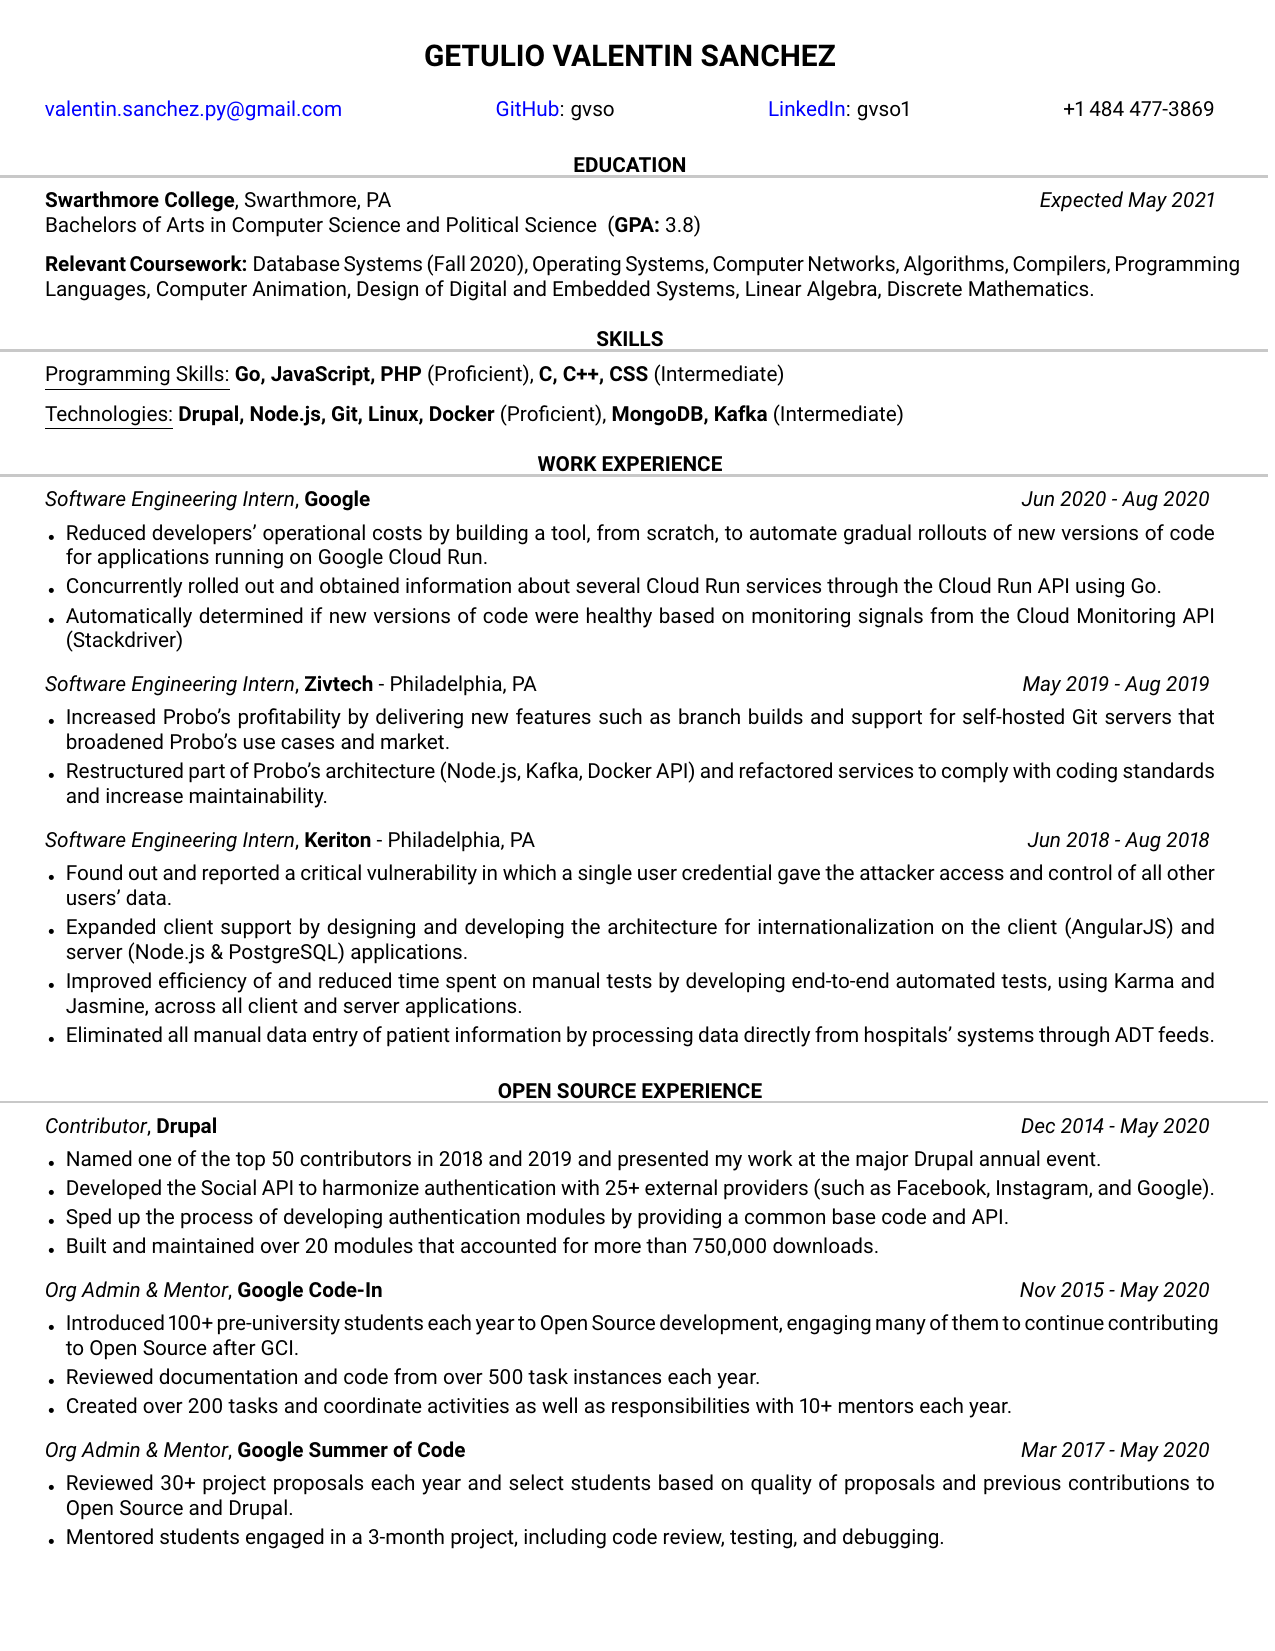
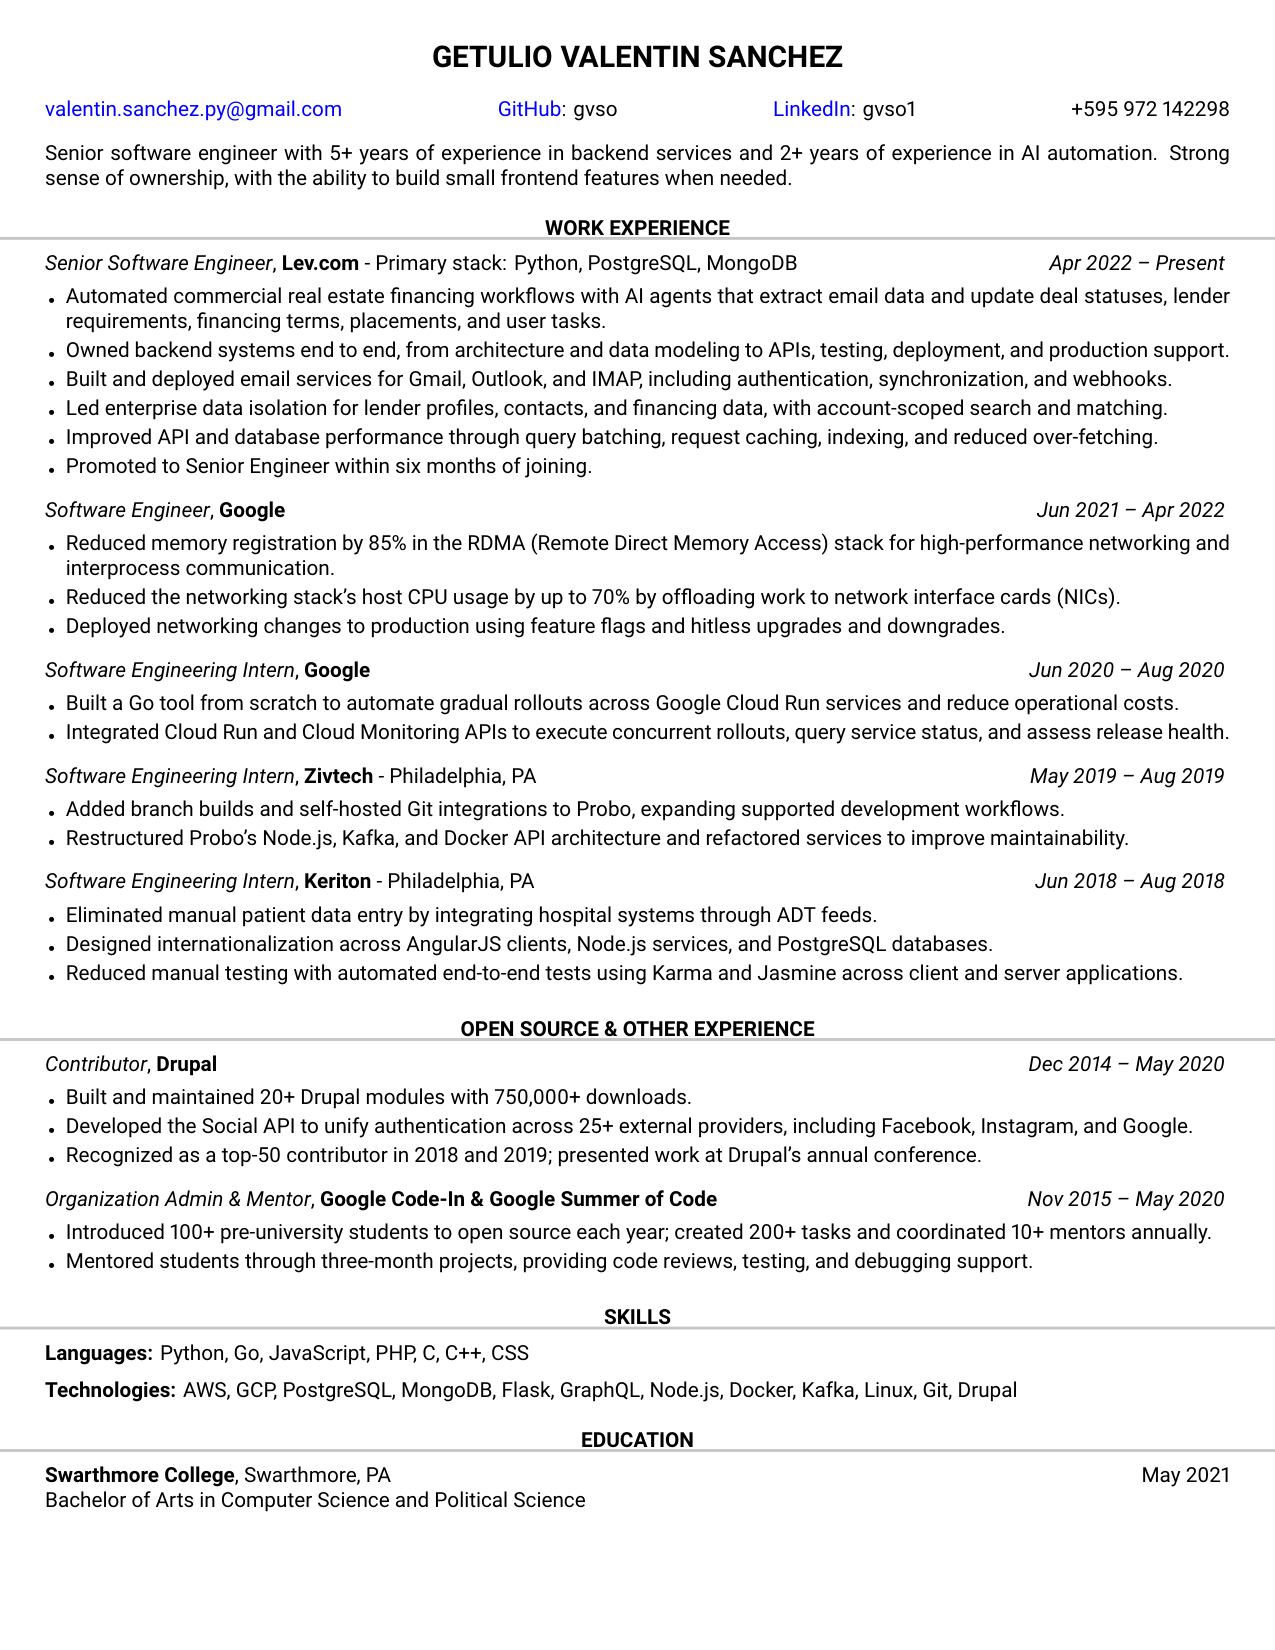
Expand Lev job description

Changed region(s): [[0.0306, 0.0, 0.9788, 0.9582], [0.7953, 0.8655, 0.9788, 0.9273]]

diff --git a/resume.tex b/resume.tex
@@ -42,45 +42,47 @@
 
 \begin{document}
 
+Senior software engineer with 5+ years of experience in backend services and 2+ years of experience in AI automation. Strong sense of ownership, with the ability to build small frontend features when needed.
+
 %----------------------------------------------------------------------------------------
 %	WORK EXPERIENCE SECTION
 %----------------------------------------------------------------------------------------
 
 \begin{rSection}{Work Experience}
 	
-\begin{rSubsection}{Software Engineer}{Lev}{}{Apr 2022 - Present}
-	\item Promoted to Senior Engineer 6 months after joining.
-	\item Developed AI agents to convert unstructured email communications into structured data to automatically extract and update deal statuses, lender financing requirements, terms, placements, user tasks, and other Commercial Real State deal-related data.
-	\item Developed algorithm to match and rank lenders and contacts based on filter criteria, underwriting tables, similar transactions, responsiveness, among other criteria.
-	\item Built and maintained the service that processes all the email communications between our customers and lenders.
+\begin{rSubsection}{Senior Software Engineer}{Lev.com}{Primary stack: Python, PostgreSQL, MongoDB}{Apr 2022 -- Present}
+	\item Automated commercial real estate financing workflows with AI agents that extract email data and update deal statuses, lender requirements, financing terms, placements, and user tasks.
+	\item Owned backend systems end to end, from architecture and data modeling to APIs, testing, deployment, and production support.
+	\item Built and deployed email services for Gmail, Outlook, and IMAP, including authentication, synchronization, and webhooks.
+	\item Improved API and database performance through query batching, request caching, indexing, and reduced over-fetching.
+	\item Led enterprise data isolation for lender profiles, contacts, and financing data, with account-scoped search and matching.
+	\item Promoted to Senior Engineer within six months of joining.
 \end{rSubsection}
 	
-\begin{rSubsection}{Software Engineer}{Google}{}{Jun 2021 - Apr 2022}
-	\item Worked on high performance networking and interprocess communication.
-	\item Reduced memory registration by 85\% in our RDMA (Remote Direct Memory Access) software stack.
-	\item Offloaded work to NIC devices to save up to 70\% of our software stack’s CPU use in	host machines.
-	\item Deployed to production using feature flags and supporting hitless upgrades/downgrades.
+\begin{rSubsection}{Software Engineer}{Google}{}{Jun 2021 -- Apr 2022}
+	\item Reduced memory registration by 85\% in the RDMA (Remote Direct Memory Access) stack for high-performance networking and interprocess communication.
+	\item Reduced the networking stack's host CPU usage by up to 70\% by offloading work to network interface cards (NICs).
+	\item Deployed networking changes to production using feature flags and hitless upgrades and downgrades.
 \end{rSubsection}
 
-\begin{rSubsection}{Software Engineering Intern}{Google}{}{Jun 2020 - Aug 2020}
-\item Reduced developers' operational costs by building a tool, from scratch, to automate gradual rollouts of new versions of code for applications running on Google Cloud Run.
-\item Concurrently rolled out and obtained information about several Cloud Run services through the Cloud Run API using Go.
-\item Automatically determined if new versions of code were healthy based on monitoring signals from the Cloud Monitoring API
-\end{rSubsection}
-
-%------------------------------------------------
-
-\begin{rSubsection}{Software Engineering Intern}{Zivtech}{Philadelphia, PA}{May 2019 - Aug 2019}
-\item Increased Probo's profitability by delivering new features such as branch builds and support for self-hosted Git servers that broadened Probo's use cases and market.
-\item Restructured part of Probo's architecture (Node.js, Kafka, Docker API) and refactored services to comply with coding standards and increase maintainability.
+\begin{rSubsection}{Software Engineering Intern}{Google}{}{Jun 2020 -- Aug 2020}
+\item Built a Go tool from scratch to automate gradual rollouts across Google Cloud Run services and reduce operational costs.
+\item Integrated Cloud Run and Cloud Monitoring APIs to execute concurrent rollouts, query service status, and assess release health.
 \end{rSubsection}
 
 %------------------------------------------------
 
-\begin{rSubsection}{Software Engineering Intern}{Keriton}{Philadelphia, PA}{Jun 2018 - Aug 2018}
-\item Expanded client support by designing and developing the architecture for internationalization on the client (AngularJS) and server (Node.js \& PostgreSQL) applications.
-\item Improved efficiency of and reduced time spent on manual tests by developing end-to-end automated tests, using Karma and Jasmine, across all client and server applications.
-\item Eliminated all manual data entry of patient information by processing data directly from hospitals' systems through ADT feeds.
+\begin{rSubsection}{Software Engineering Intern}{Zivtech}{Philadelphia, PA}{May 2019 -- Aug 2019}
+\item Added branch builds and self-hosted Git integrations to Probo, expanding supported development workflows.
+\item Restructured Probo's Node.js, Kafka, and Docker API architecture and refactored services to improve maintainability.
+\end{rSubsection}
+
+%------------------------------------------------
+
+\begin{rSubsection}{Software Engineering Intern}{Keriton}{Philadelphia, PA}{Jun 2018 -- Aug 2018}
+\item Eliminated manual patient data entry by integrating hospital systems through ADT feeds.
+\item Designed internationalization across AngularJS clients, Node.js services, and PostgreSQL databases.
+\item Reduced manual testing with automated end-to-end tests using Karma and Jasmine across client and server applications.
 \end{rSubsection}
 
 \end{rSection}
@@ -91,18 +93,17 @@
 
 \begin{rSection}{OPEN SOURCE \& OTHER EXPERIENCE}
 
-\begin{rSubsection}{Contributor}{Drupal}{}{Dec 2014 - May 2020}
-\item Named one of the top 50 contributors in 2018 and 2019 and presented my work at the major Drupal annual event.
-\item Developed the Social API to harmonize authentication with 25+ external providers (such as Facebook, Instagram, and Google).
-\item Built and maintained over 20 modules that accounted for more than 750,000 downloads.
+\begin{rSubsection}{Contributor}{Drupal}{}{Dec 2014 -- May 2020}
+\item Built and maintained 20+ Drupal modules with 750,000+ downloads.
+\item Developed the Social API to unify authentication across 25+ external providers, including Facebook, Instagram, and Google.
+\item Recognized as a top-50 contributor in 2018 and 2019; presented work at Drupal's annual conference.
 \end{rSubsection}
 
 %------------------------------------------------
 
-\begin{rSubsection}{Org Admin \& Mentor}{Google Code-In \& Google Summer of Code}{}{Nov 2015 - May 2020}
-\item Introduced 100+ pre-university students each year to Open Source development, engaging many of them to continue contributing to Open Source after GCI.
-\item Created over 200 tasks and coordinate activities as well as responsibilities with 10+ mentors each year.
-\item Mentored students engaged in a 3-month project, including code review, testing, and debugging.
+\begin{rSubsection}{Organization Admin \& Mentor}{Google Code-In \& Google Summer of Code}{}{Nov 2015 -- May 2020}
+\item Introduced 100+ pre-university students to open source each year; created 200+ tasks and coordinated 10+ mentors annually.
+\item Mentored students through three-month projects, providing code reviews, testing, and debugging support.
 \end{rSubsection}
 
 %------------------------------------------------
@@ -114,9 +115,9 @@
 %----------------------------------------------------------------------------------------
 
 \begin{rSection}{Skills}
-	\underline{Programming Skills:} Python, PHP, Go, JavaScript, C, C++, CSS
+	\textbf{Languages:} Python, Go, JavaScript, PHP, C, C++, CSS
 	
-	\underline{Technologies:} Flask, AWS, GCP, PostgreSQL, MongoDB, Drupal, Git, Linux, Docker, Node.js, Kafka
+	\textbf{Technologies:} AWS, GCP, PostgreSQL, MongoDB, Flask, GraphQL, Node.js, Docker, Kafka, Linux, Git, Drupal
 \end{rSection}
 
 %----------------------------------------------------------------------------------------
@@ -126,7 +127,7 @@
 \begin{rSection}{Education}
 	
 	{\bf Swarthmore College}, Swarthmore, PA \hfill {May 2021} \\ 
-	Bachelors of Arts in Computer Science and Political Science
+	Bachelor of Arts in Computer Science and Political Science
 	
 \end{rSection}
 

diff --git a/README.md b/README.md
@@ -1,4 +1,4 @@
 Resume
 ===
 
-![Drag Racing](resume.png)
+![Getulio Valentin Sanchez resume](resume.png)
